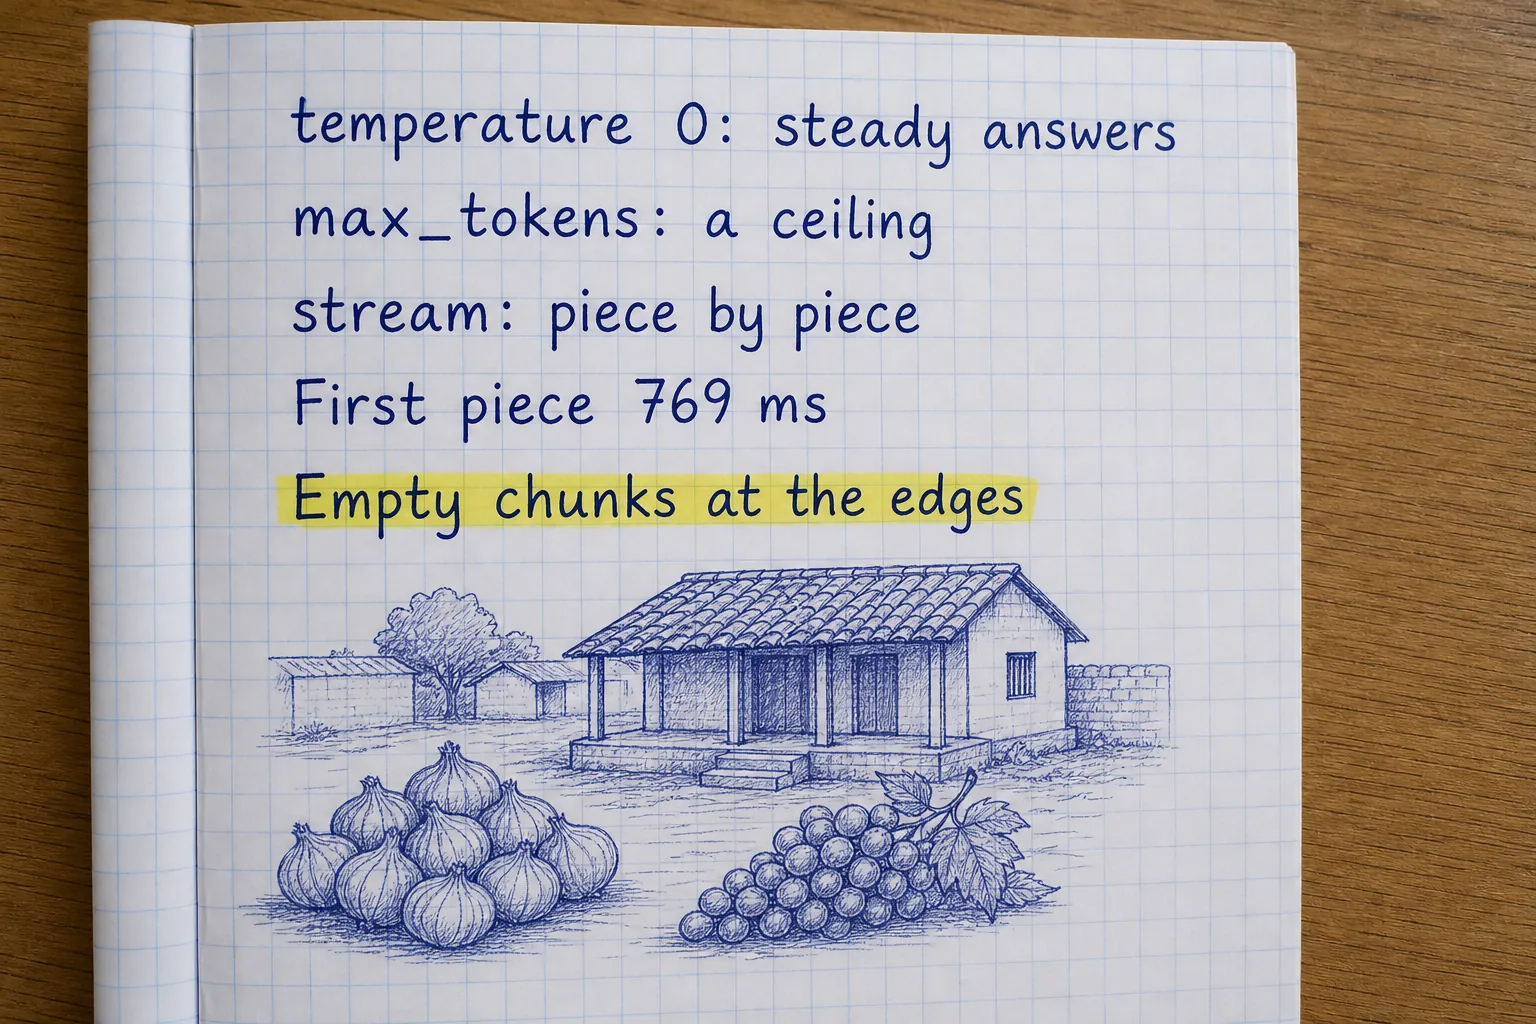
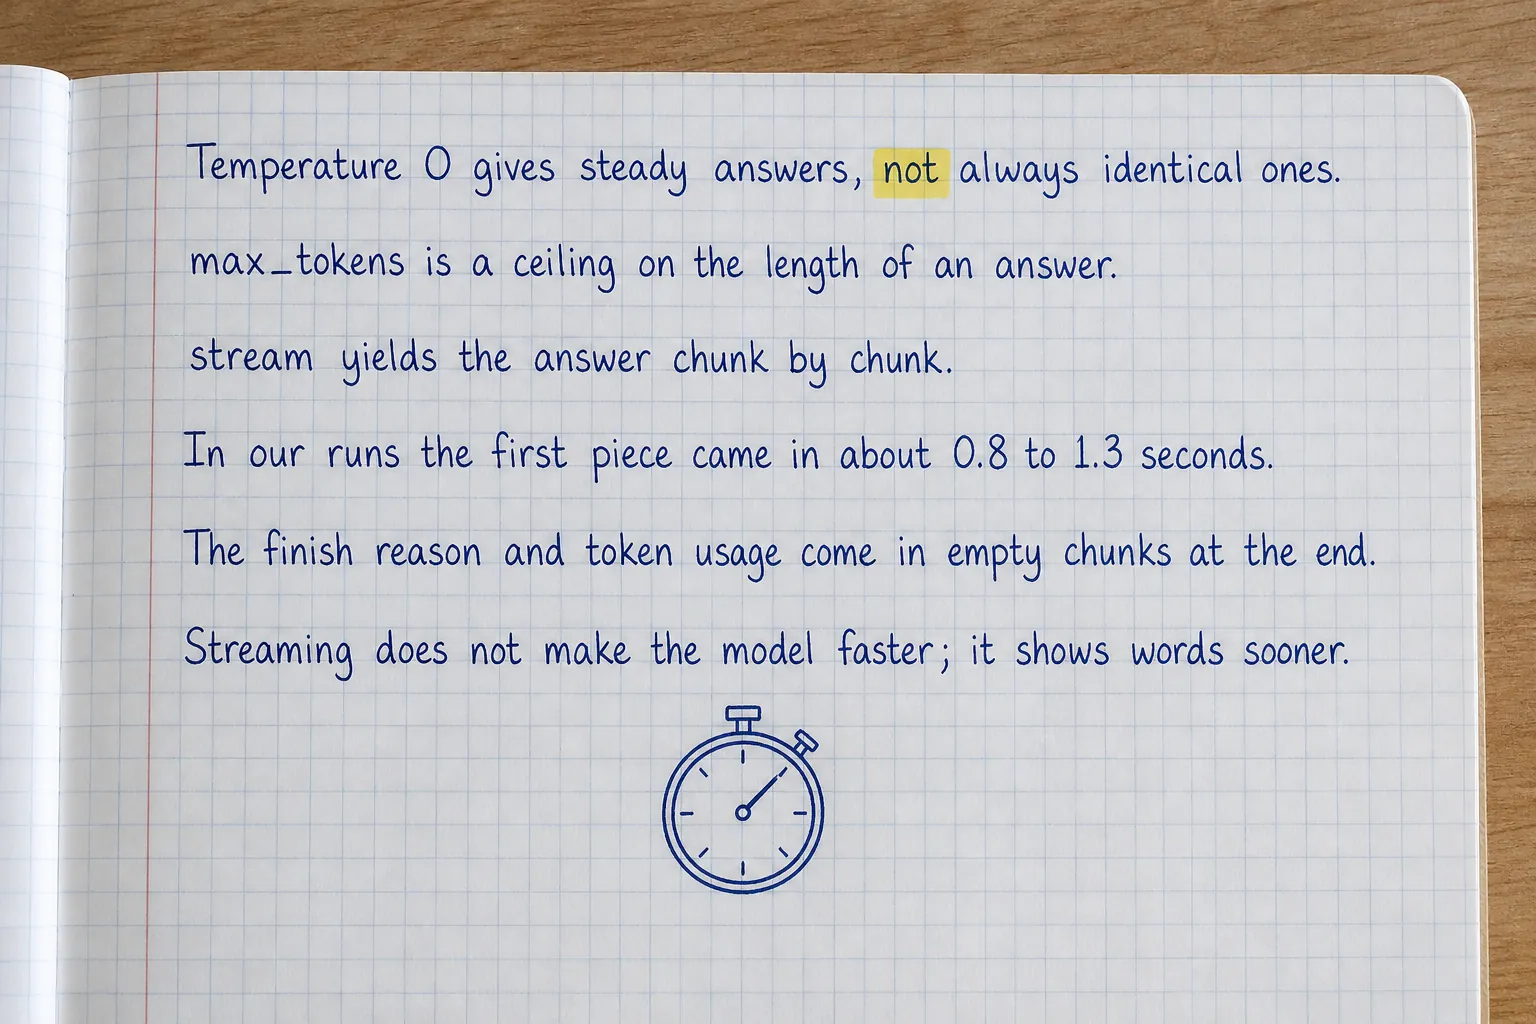
LangChain chapter 8 rewritten: plain and fuller, timings given as measured ranges, claims checked against live streams

diff --git a/labs/langchain/tests/parameters/test_ch08.py b/labs/langchain/tests/parameters/test_ch08.py
@@ -35,5 +35,5 @@ def test_stream_tokens(fake):
             return r.failed("stream_tokens", "Call on_piece(chunk.content) for every chunk, as it arrives.", "several pieces", seen)
         if got != "Rain spoils stored onions, so supply falls.":
             return r.failed("stream_tokens", "Return all the pieces joined together.", "Rain spoils stored onions, so supply falls.", got)
-        r.passed("stream_tokens", "Each piece shown the moment it exists: the passenger reads while the model writes.")
+        r.passed("stream_tokens", "Each piece shown the moment it exists: the member reads while the model writes.")
     r.task("stream_tokens", check)

diff --git a/labs/langchain/chapters/08-parameters.md b/labs/langchain/chapters/08-parameters.md
@@ -3,9 +3,8 @@ Two complaints came back from the first members who tried Navin. One asked the s
 differently worded answers, and wondered which was right. Another waited for an answer with nothing on the screen,
 decided the app was broken, and closed it a second before the answer appeared.
 
-Both have simple fixes. **Model parameters** make answers steady and short: `temperature` (chapter 4's softmax knob)
-and `max_tokens` (a ceiling on the answer's length, and so its cost). **Streaming** shows the answer as it is written,
-one piece at a time, the way chat apps do: the model is no faster, but the wait feels much shorter.
+Both have simple fixes. **Model parameters** (settings sent with every request) make answers steady and short: `temperature` (chapter 4's softmax knob)
+and `max_tokens` (a ceiling on the answer's length, and so its cost). **Streaming** shows the answer as it is written, one piece at a time (a **chunk** is one such piece), the way chat apps do: the model is no faster, but the wait feels much shorter.
 
 :::mission
 Build a model with a temperature of 0 and a 120-token ceiling, then stream an answer piece by piece and time the first
@@ -21,7 +20,7 @@ piece.
 | `temperature` | How adventurous the next-token choice is (chapter 4) | 0: the same question gets (nearly) the same answer |
 | `max_tokens` | The longest answer allowed; the model stops there | 120: a help desk answer, not an essay |
 | `timeout`, `max_retries` | As in chapter 6 | defaults |
-| `stop` | Text that ends the answer when produced | not needed |
+| `stop` | Text that ends the answer when the model produces it | not needed |
 
 ```python
 init_chat_model("openai:ai-chat", temperature=0, max_tokens=120)
@@ -35,6 +34,8 @@ low; the reply then says why (`finish_reason: length`).
 :::step{type=task task=steady_model title="Your turn: a steady model" file="08-parameters/params.py" line="8-11"}
 Finish `steady_model()`: return `init_chat_model("openai:ai-chat", temperature=0, max_tokens=120)`.
 
+The usual slip: `max_tokens="120"` as a string. It must be a number.
+
 Press **Check**.
 :::
 
@@ -45,9 +46,8 @@ wait.
 :::
 
 **Server-Sent Events** (SSE), first drafted in **2004** for HTML5 and a W3C Recommendation since **2015**, let a server keep one HTTP
-response open and send small messages through it as they become ready: lines of `data: ...`, one after another. Every
-major model API streams answers this way. Each event carries the next few characters of the answer, and the last one
-says `data: [DONE]`.
+response open and send small messages through it as they become ready: lines of `data: ...`, one after another. The major model APIs (OpenAI, Anthropic, Google) stream answers this way. Each event carries the next few characters
+of the answer; OpenAI's last event says `data: [DONE]`.
 
 :::solved
 **Time to first word.** The member starts reading as soon as the first token exists, instead of after the last.
@@ -69,14 +69,21 @@ for chunk in model.stream(messages):
     print(chunk.content, end="", flush=True)   # a few characters at a time
 ```
 
-Chunks can be added together (`chunk1 + chunk2`) into one message, and the last chunk carries the token usage. Your
+Chunks can be added together (`chunk1 + chunk2`) into one message. Near the end, one empty chunk carries the finish
+reason and another the token usage (we looked inside a real stream: 38 chunks in all). Your
 `stream_answer` takes an `on_piece` function, so the caller decides what to do with each piece: print it, send it to a
 web page, or test it.
 :::
 
 :::step{type=task task=stream_tokens title="Your turn: stream the answer" file="08-parameters/params.py" line="14-17"}
-Finish `stream_answer(model, question, on_piece)`: loop over `model.stream([...])` with the system message and the
-question; call `on_piece(chunk.content)` for every chunk, and return all the pieces joined.
+Finish `stream_answer(model, question, on_piece)`:
+
+1. Loop: `for chunk in model.stream([SystemMessage(SYSTEM), HumanMessage(question)]):`.
+2. In the loop, call `on_piece(chunk.content)` and keep `chunk.content` in a list.
+3. After the loop, return the pieces joined: `"".join(pieces)`.
+
+The usual slip: collecting everything and calling `on_piece` once at the end with the whole text. Then nothing
+appears until the answer is finished, which is what streaming is meant to avoid; the check wants several pieces.
 
 ```bash run
 cd /workspace/08-parameters && python main.py
@@ -94,11 +101,13 @@ first piece after 769 ms, all 149 characters after 1157 ms
 ```
 
 Each pair of brackets is one chunk, exactly as it arrived: mostly one token each (`[mon][soon]` is one word in two
-tokens, as in chapter 2). The **first piece of text arrived after 769 ms**, the whole answer after 1157 ms: the member
-starts reading in under a second instead of waiting for all of it.
+tokens, as in chapter 2). In this run the **first piece of text arrived after 769 ms**, the whole answer after 1157
+ms. Times depend on the network and on how busy the provider is: in three more runs on 25 November the first piece
+came after 0.9 to 1.3 seconds and the whole answer after 1.4 to 1.9 seconds, while the text stayed exactly the same.
+Either way, the member starts reading about half a second before the answer is finished.
 
-Look at the edges too: an empty chunk `[]` first (the one that only says "the assistant is speaking") and three empty
-ones at the end, which carry the finish reason and the token usage instead of text. Code that shows pieces must cope with empty
+Look at the edges too: an empty chunk `[]` first (it only says which provider answered) and three empty ones at the
+end: one carries the finish reason, one the token usage, and the last carries nothing. Code that shows pieces must cope with empty
 ones; `main.py` starts its timer only at the first piece that has text.
 :::
 
@@ -144,7 +153,8 @@ fills in as Navin writes.
 
 **Async streaming.** `astream` is the same with `async for`, so one server can stream to many members at once.
 
-**Cost of a ceiling.** `max_tokens` is also a budget guard: one runaway answer cannot cost more than 120 output tokens.
+**Cost of a ceiling.** `max_tokens` is also a budget guard: one runaway answer cannot cost more than 120 output tokens
+(the lab gateway adds its own ceiling of 1,024, chapter 5).
 :::
 
 :::step{type=recap}
@@ -157,7 +167,7 @@ You can now:
 
 Next, chapter 9: the confident wrong answers from chapters 5 and 6, and what every answer costs.
 
-:::photo{src="/lesson-images/langchain/lc-08-notes.webp" alt="Handwritten notes about parameters and streaming: temperature 0: steady answers; max_tokens: a ceiling; stream: piece by piece; First piece 769 ms; Empty chunks at the edges" ai="true"}
+:::photo{src="/lesson-images/langchain/lc-08-notes.webp" alt="Handwritten notes about parameters and streaming: Temperature 0 gives steady answers, not always identical ones. max_tokens is a ceiling on the length of an answer. stream yields the answer chunk by chunk. In our runs the first piece came in about 0.8 to 1.3 seconds. The finish reason and token usage come in empty chunks at the end. Streaming does not make the model faster; it shows words sooner." ai="true"}
 One page of notes for this chapter.
 :::
 :::

diff --git a/CHANGELOG.md b/CHANGELOG.md
@@ -1,5 +1,15 @@
 # Changelog
 
+## 25 November: LangChain chapter 8 rewritten (easy, a little detailed, checked)
+
+- Parameters and chunks are explained where they first appear; both tasks list their steps and the usual slips.
+- Checked by streaming through the lab gateway four times and opening a stream's chunks: the text was the same every
+  time (149 characters, 38 chunks), but the first piece came after 0.8 to 1.3 s and the whole answer after 1.2 to 1.9 s,
+  so the lesson now gives that range instead of one exact time (769 ms). Corrected: the end chunks are one with the
+  finish reason, one with the token usage and one empty; `data: [DONE]` is OpenAI's own ending, not every API's; the
+  task's "usual slip" now matches what the check really tests. The check's success message said "the passenger reads"
+  (a word from another course): it now says "the member". A new notes page.
+
 ## 25 November: LangChain chapter 7 rewritten (easy, a little detailed, checked)
 
 - Interface and integration package are explained where they first appear; both tasks list their steps and the usual
